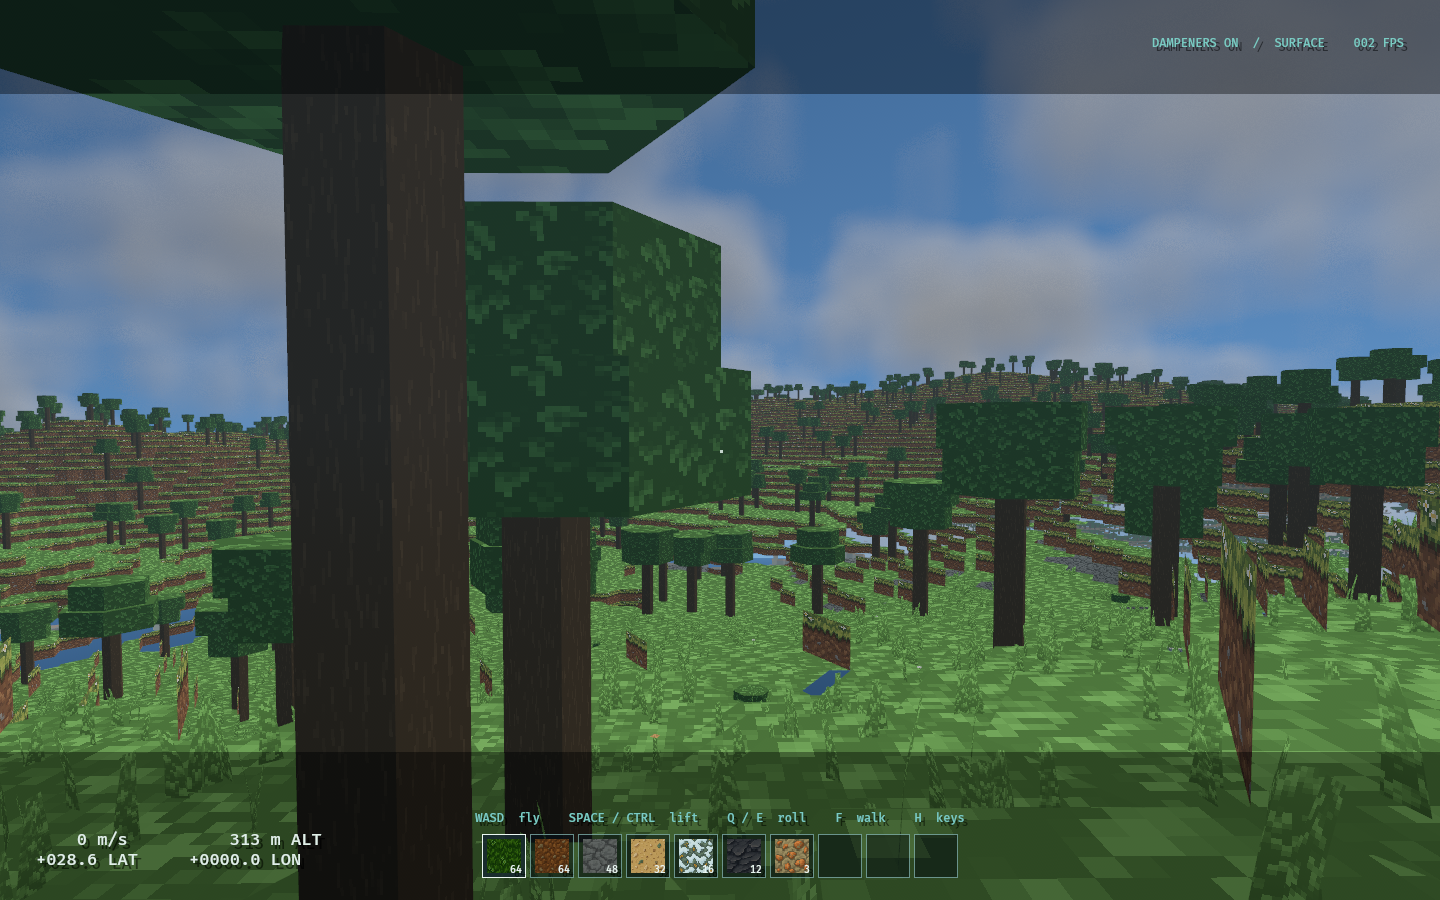
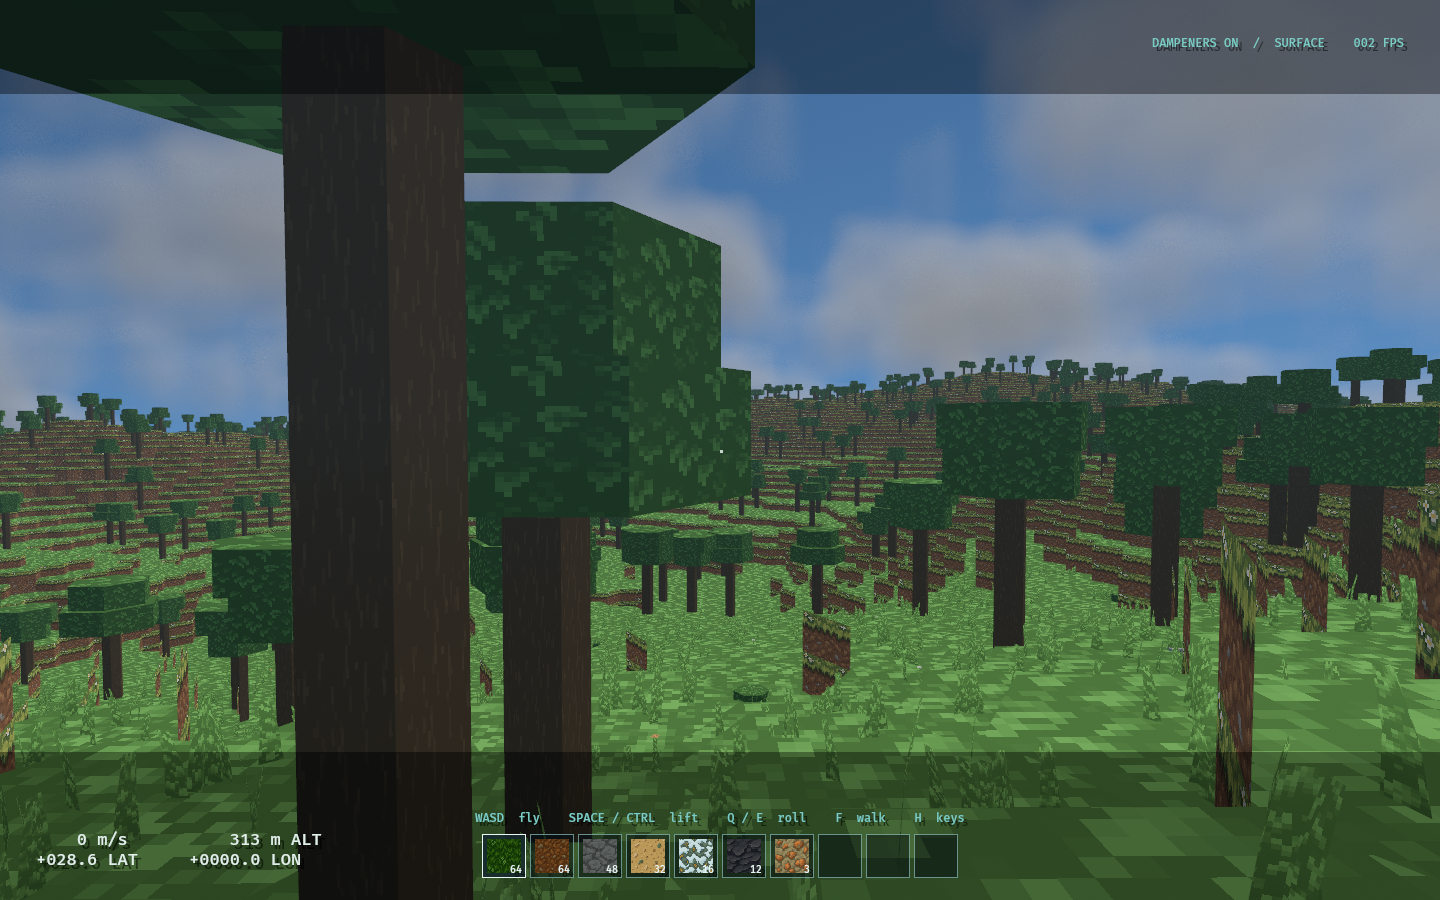
The holes in the ground: the column tier suppressed a wall nobody replaced
The owner asked for proof the ground was fixed, and the honest answer was that
I did not have it. What I had fixed was a seam I had measured; it changed no
pixel of any frame, and I should not have implied otherwise. This finds the
real one, and the picture is in `terrain-holes-before-after.png`.

The instrument came first, because the bug is invisible by construction: a hole
in the ground with sky behind it looks exactly like sky. `PBD_NO_SKY` leaves
the atmosphere shell unspawned and paints the clear colour magenta, so anything
that is not terrain is a place the world failed to close.

  seam view, background pixels
    column tier on                    407,484
    column tier off (reach_m: 0.0)    404,936
    tier on, terrain wall forced on   404,936

So the tier was adding 2,548 pixels of nothing, and the wall it suppressed was
what had been closing them. The meadow view was 4,084.

THE CAUSE. Between two cells that both carry columns the terrain pass drew no
wall and left the side to the column pass, which draws a flank per run against
each of the neighbour's air gaps. There is no such pair spanning a terrace
step: this cell's top run ends at its own surface and the neighbour's top gap
begins at the neighbour's surface, so the band between the two caps belonged to
no pair and nobody drew it. Underground the flanks meet exactly, which is why
the caves looked right and the meadow did not.

THE FIX is a narrower yield rather than a wider wall. `run_covers` asks whether
[…]

diff --git a/crates/pbd-app/src/sky.rs b/crates/pbd-app/src/sky.rs
@@ -169,6 +169,14 @@ fn spawn_atmosphere(
     mut materials: ResMut<Assets<SkyMaterial>>,
     water: Res<WaterSettings>,
 ) {
+    // `PBD_NO_SKY` leaves the atmosphere shell unspawned so the clear colour
+    // shows through. It is a hole DETECTOR rather than a look: against a flat
+    // background, anything that is not terrain is a place the ground failed to
+    // close, and no amount of squinting at a blue sky can tell those from the
+    // sky over a ridge.
+    if std::env::var("PBD_NO_SKY").is_ok() {
+        return;
+    }
     let sun = SUN_DIRECTION.normalize();
     let material = materials.add(SkyMaterial {
         parameters: SkyParameters {

diff --git a/crates/pbd-app/src/desktop.rs b/crates/pbd-app/src/desktop.rs
@@ -285,7 +285,13 @@ pub fn run(args: &[String]) {
         ..default()
     })
     .insert_resource(slots::Hotbar::starting_kit())
-    .insert_resource(ClearColor(Color::srgb(0.002, 0.004, 0.012)))
+    .insert_resource(ClearColor(if std::env::var("PBD_NO_SKY").is_ok() {
+        // The hole detector's background: nothing in the palette is near it,
+        // so a magenta pixel is a pixel with no world behind it.
+        Color::srgb(1.0, 0.0, 1.0)
+    } else {
+        Color::srgb(0.002, 0.004, 0.012)
+    }))
     .insert_resource(CaptureState {
         frame: 0,
         requested: false,

diff --git a/openspec/changes/voxel-columns-and-mining/design.md b/openspec/changes/voxel-columns-and-mining/design.md
@@ -419,6 +419,42 @@ with two gaps had the second drawn as nothing, and from inside a cave nothing is
 a window. 720 vertices is affordable on a tier of a few thousand cells and is
 the exact answer rather than most of one.
 
+### The wall the column pass was trusted to draw, and did not
+
+The terrain pass draws a cap and a wall from it down to the neighbour's cap.
+Between two cells that BOTH carry columns it drew no wall at all and left the
+side to the column pass, which draws a flank per run against each of the
+neighbour's air gaps. That yield was too wide, and the gap it left is the
+"holes in the terrain" the owner reported.
+
+**A flank is (this run) against (one of the neighbour's gaps), and between two
+ordinary cells there is no such pair spanning the step.** This cell's top run
+ends at its own surface and the neighbour's top gap begins at the neighbour's
+surface, so the band between the two caps belongs to no pair, and nobody drew
+it. Underground the flanks meet exactly, which is why the caves looked right
+and the meadow did not.
+
+**Measured, with an instrument built for it.** `PBD_NO_SKY` leaves the
+atmosphere shell unspawned and paints the clear colour magenta, so a pixel that
+is not terrain is a pixel with no world behind it - which a blue sky over a
+ridge can never be told apart from by eye. On the seam view: 407,484 background
+pixels with the tier on, 404,936 with `reach_m: 0.0`, and 404,936 again with
+the tier on and the terrain wall forced back. So the tier was adding 2,548
+pixels of nothing, and the wall it suppressed was the thing that had closed
+them. The meadow view closed 4,084.
+
+**The fix is a narrower yield, not a wider wall.** `run_covers` asks whether
+this cell's rock fills the step in one run; where it does, the heightfield wall
+stands as it always did, and where it does not - a mouth, a tunnel crossing the
+edge - the column pass keeps the side and draws it exactly. The cave captures
+and the mouth count are unchanged by it.
+
+**The lesson is the one this file keeps: a pass that yields must be able to say
+what the other pass will draw.** "The column pass has this side" was true of
+the cells it was tested on, underground, and false of every terrace on the
+surface, and nothing in the build could tell the difference because a hole in
+the ground with sky behind it looks exactly like sky.
+
 ### The tier's rim is generated SOLID
 
 A cell outside the tier answers from the heightfield, whose one assumption is

diff --git a/openspec/changes/hexagon-lod/SEAM-BRIEF.md b/openspec/changes/hexagon-lod/SEAM-BRIEF.md
@@ -93,10 +93,14 @@ cells that actually cover the edge; the cheap version samples the edge at the
 finer band's own spacing and takes the least, which bounds the error by how far
 the height field can move between two samples.
 
-This is NOT the column tier and NOT the cave carve: the tier reaches ninety
-metres and these slits are on a skyline. A before-and-after measurement of the
-enclosed-sky pixels across the worm change found 5,259 against 5,286, which is
-noise, so the slits predate it.
+This shortfall is real and is fixed, but it was NOT what the owner saw. That
+was the column tier suppressing the heightfield wall on every shared side
+(`voxel-columns-and-mining/design.md`, "The wall the column pass was trusted to
+draw"), measured with `PBD_NO_SKY` at 2,548 background pixels on the seam view
+and 4,084 on the meadow. The shortfall here changed no pixel of either view:
+the floor is read only where a band boundary falls on a wall, and neither
+capture has one in frame. It is closed because a wall that stops above the
+ground it meets is wrong, not because it was the reported bug.
 
 Everything below is the context those four need.
 
